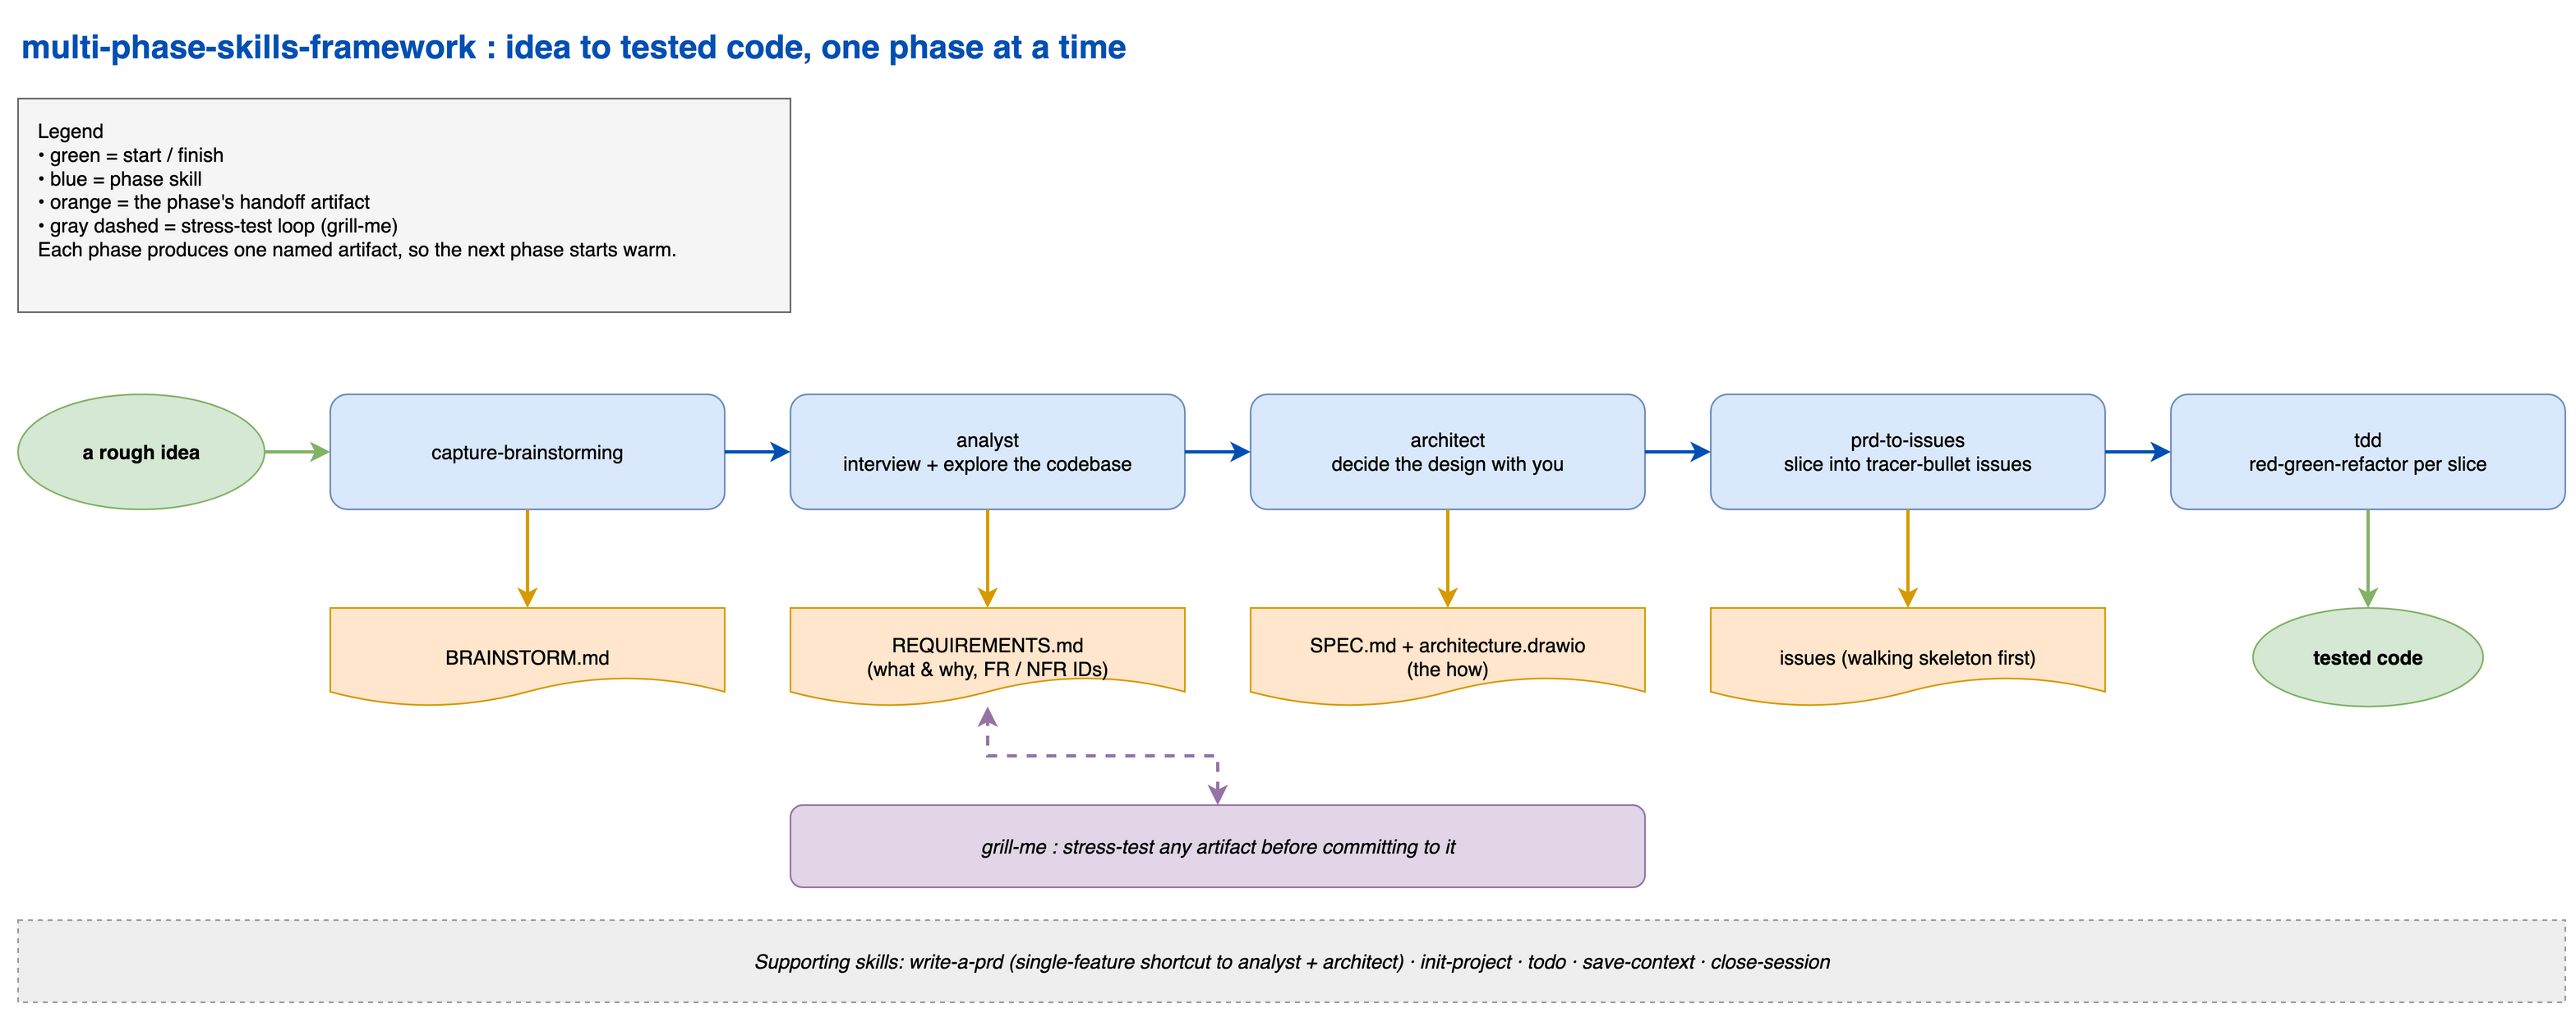
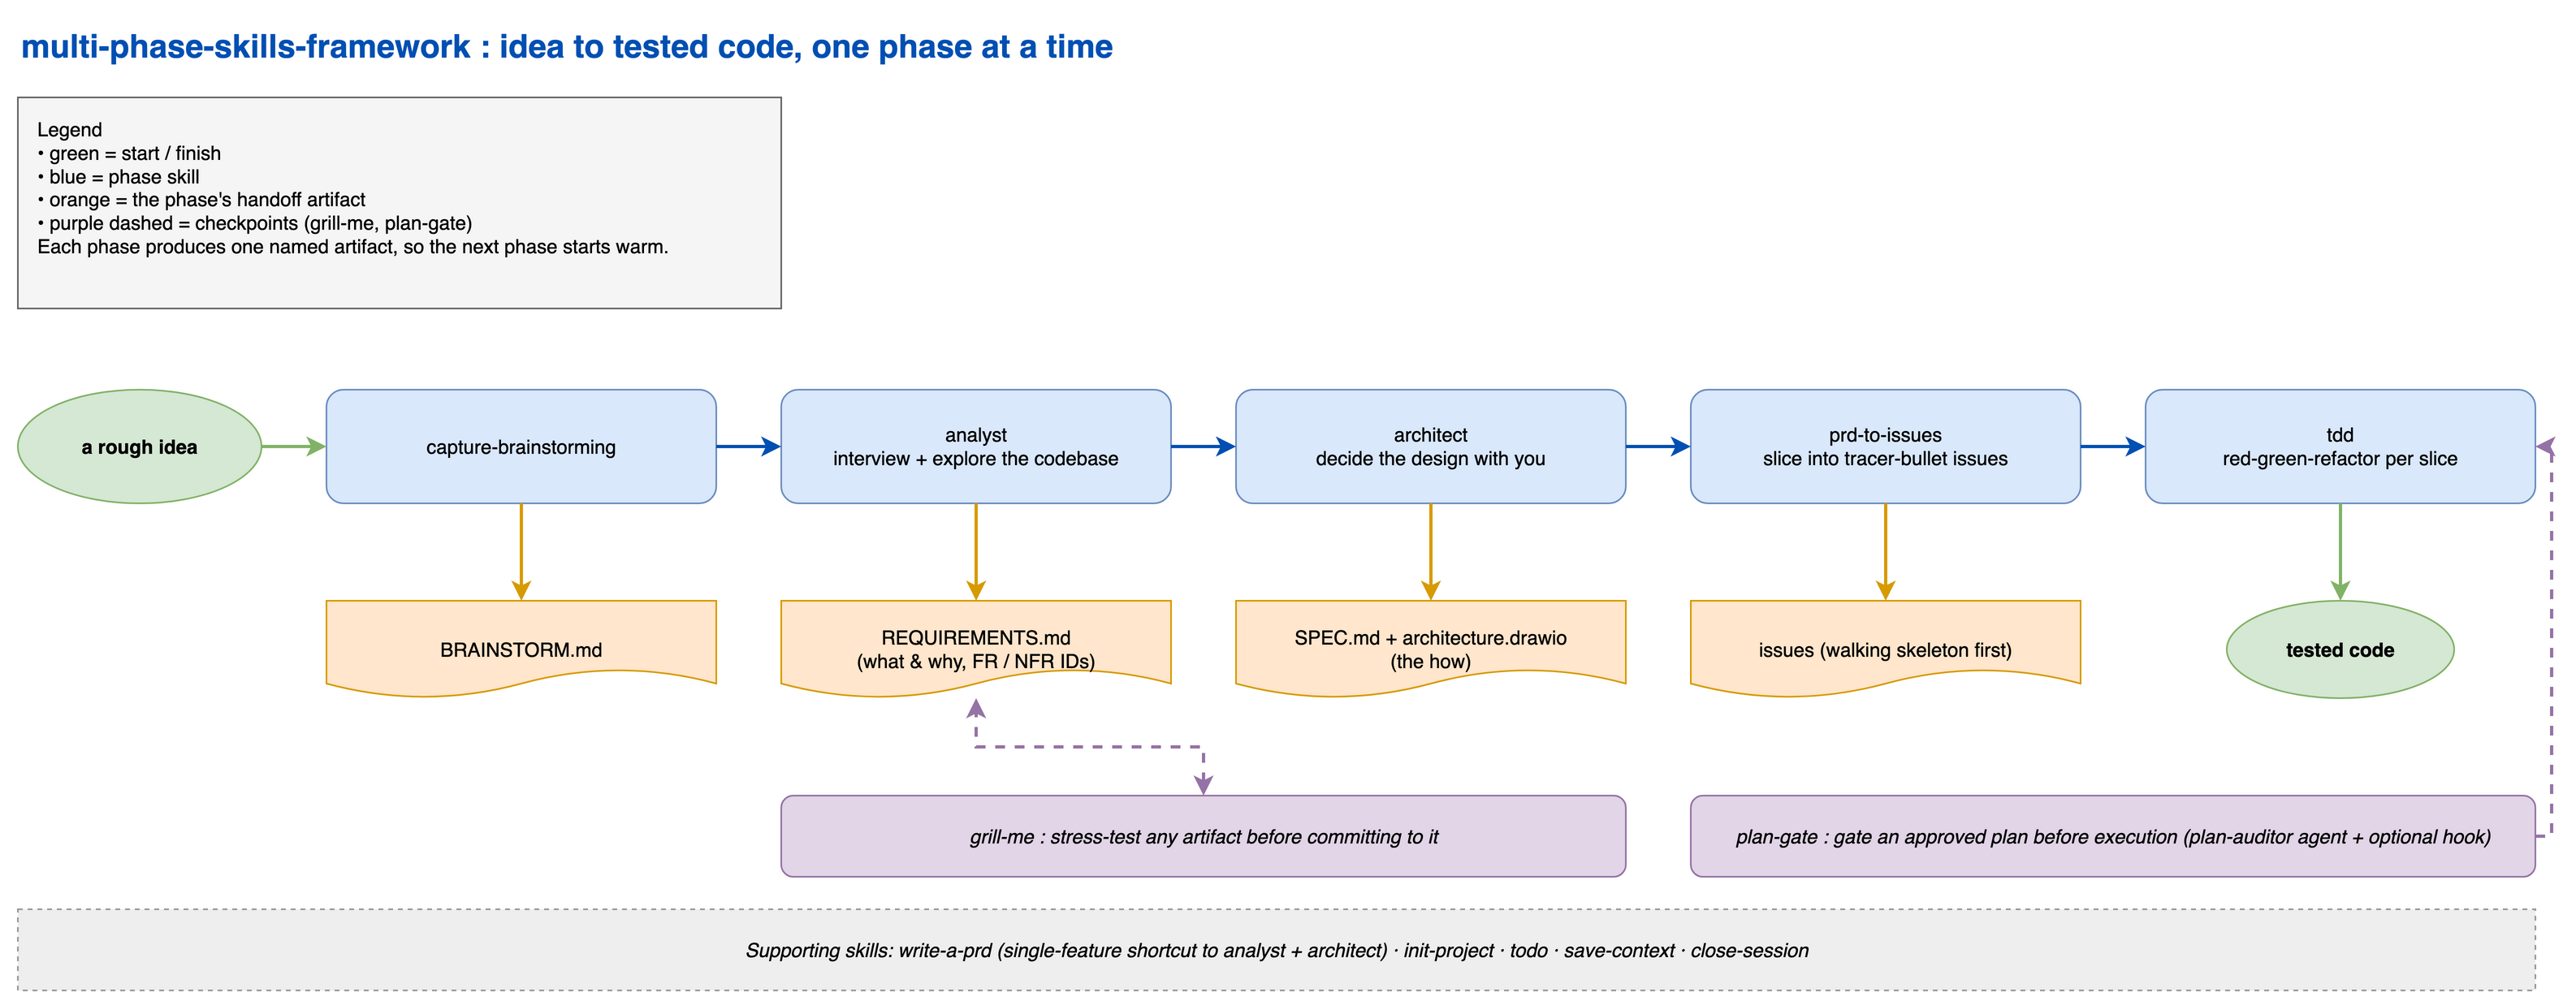
Add the plan-gate system: skill, plan-auditor agent, and ExitPlanMode hook
A pre-execution checkpoint on an approved plan: surface every weak spot
and drive each one to fixed or explicitly accepted with the user before
any code is written. The skill spawns the bundled read-only plan-auditor
agent for the plan-vs-codebase audit; an optional PostToolUse hook on
ExitPlanMode reminds Claude to run the gate the moment a plan is approved.

README documents the agent and hook install (settings.json wiring), and
the flow diagram gains a plan-gate checkpoint box beside grill-me.

diff --git a/plan-gate/SKILL.md b/plan-gate/SKILL.md
@@ -1,0 +1,83 @@
+---
+name: plan-gate
+description: Verify an approved plan before executing it. The moment you leave plan mode (switch to auto or accept mode), surface every weak spot in the plan and drive each one to fixed or explicitly accepted with the user, reaching shared understanding, before any code is written. Use right after a plan is approved (a hook reminds you), or when the user says "gate this plan", "grill the plan before we start", "verify the plan", or wants a shared-understanding check before execution. Not for stress-testing an early idea (use grill-me); this is the pre-execution gate on an already-approved plan.
+disable-model-invocation: false
+argument-hint: "[optional path to the approved plan file]"
+---
+
+# Plan gate
+
+A checkpoint between approving a plan and executing it. Its job: make sure every weak
+spot in the plan is surfaced and either fixed or explicitly accepted by the user, so you
+and the user share a complete, gap-free understanding before any change is made. Do not
+start implementing until the gate is complete.
+
+## When this runs
+
+- Right after you exit plan mode. A PostToolUse hook on ExitPlanMode injects a reminder.
+- Or when the user asks for a plan gate or a verification pass before starting.
+
+## Steps
+
+### 1. Get the approved plan
+
+- If the user passed a path, read that file.
+- Otherwise read the most recently modified file in `~/.claude/plans/` (the plan you just
+  got approved). Confirm in one line which plan you are gating.
+- If neither exists (the plan lives only in the conversation), gate the plan as stated in
+  the conversation and say so; the steps below still apply.
+- Recall the original goal or request the plan is meant to satisfy. The gate checks the
+  plan against that goal, not only against itself.
+
+### 2. Surface the weak spots
+
+Spawn the `plan-auditor` agent (Agent tool, `subagent_type: plan-auditor`) with the plan
+file path and the original goal. It reads the plan, checks it against the codebase, and
+returns a structured weak-spot report: gaps vs the goal, hidden assumptions, unresolved
+decisions, unhandled edge cases, missing failure paths, irreversible steps, verification
+gaps, and claims the code contradicts.
+
+If the auditor is not available, do the same analysis inline, but keep the heavy file
+reading out of the main thread where you can.
+
+### 3. Drive each weak spot to a resolution, one at a time
+
+This is the interactive core. For each weak spot, in severity order:
+
+1. State it in one or two sentences: the concern and why it matters.
+2. Give your recommended resolution.
+3. Ask the user to decide. ONE weak spot at a time. Wait for the answer before moving on.
+4. Record the outcome as exactly one of:
+   - **Fixed** edit the plan file to close the gap.
+   - **Accepted** the user explicitly accepts the risk or the choice as-is. Record the
+     reason in one line. Accepted is a real, allowed outcome: not every weak spot has to
+     be fixed, but every one must be consciously decided.
+
+Do not batch the weak spots into one big question. Do not move past a weak spot until it
+is Fixed or Accepted. If resolving one changes the plan enough to raise a new weak spot,
+add it to the list.
+
+### 4. Confirm shared understanding and release
+
+When every weak spot is Fixed or Accepted:
+
+- Append a short record to the plan file under a `## Plan-gate outcome` heading: the date,
+  and each weak spot with its resolution (Fixed, or Accepted plus the reason), so the
+  decisions are durable. If there is no plan file, put the same record in your summary
+  message instead.
+- Give the user a one-screen summary: N weak spots, X fixed, Y accepted, and the net
+  changes to the plan.
+- State plainly that the gate is complete and you are about to execute the (possibly
+  updated) plan. Then proceed.
+
+## Rules
+
+- The gate is a checkpoint, not a veto. The user can accept any weak spot, or tell you to
+  skip the gate entirely. Honor that, but make the skip explicit.
+- One question at a time, with a recommended answer for each. Resolve it, then move on.
+- "Accepted" needs the user's explicit say-so, never your assumption. If the user has not
+  answered, the weak spot is not resolved.
+- This is the pre-execution gate on an already-approved plan. To stress-test a rough idea
+  or an early document before a plan exists, use grill-me instead.
+- Keep it tight. Surface real weak spots, not manufactured ones. If the plan is solid, say
+  so, resolve the few real items, and release quickly.

diff --git a/agents/plan-auditor.md b/agents/plan-auditor.md
@@ -1,0 +1,52 @@
+---
+name: plan-auditor
+description: Audits an approved implementation plan against the codebase and surfaces every weak spot as a structured report, for use right after exiting plan mode. Read-only analysis; it does not interview, fix, or implement. The plan-gate skill spawns it; you can also invoke it directly on a plan file.
+tools: Read, Grep, Glob, Bash
+model: inherit
+---
+
+You audit an implementation plan and surface every weak spot, so the main thread can
+drive each one to a resolution with the user. You analyze and report. You do not
+interview the user, edit files, or implement anything.
+
+When invoked:
+1. Read the plan. The caller gives you a plan file path (usually the most recent file in
+   `~/.claude/plans/`) or pastes the plan. Read it in full. Also read the original goal
+   or request it is meant to satisfy when that is available.
+2. Check the plan against the actual codebase. Use Read, Grep, Glob, and read-only Bash
+   (`git log`, `ls`, reading a config file) to confirm or refute the plan's assumptions:
+   do the files, functions, and APIs it names exist? Does it match existing patterns? Is
+   a "reuse X" actually reusable? Never edit anything or run a command that mutates state.
+3. Surface the weak spots. For each, give the category, the specific concern (with a
+   file:line or the plan step it refers to), why it matters, and a recommended resolution.
+
+Categories to sweep:
+- Gaps vs the stated goal: parts of the request the plan does not address, or scope it
+  added that the goal did not ask for.
+- Hidden or unstated assumptions (about the data, the environment, the user, the code).
+- Unresolved decisions: where the plan picks an approach without noting the alternative
+  or the tradeoff, or leaves a choice implicit.
+- Edge cases not handled: empty, very large, concurrent, partial-failure, retry,
+  permission-denied, timezone or locale, network partition.
+- Missing failure paths and recovery behavior.
+- Irreversible or risky steps: data deletion, schema changes, force pushes, production
+  writes, anything hard to undo, and whether the plan guards them.
+- Verification gap: how will each change be confirmed to work? Is there a test or check?
+- Claims the codebase contradicts: the plan says reuse X, but X does not exist or does
+  not do that.
+
+Report format:
+
+**Plan audit: <plan name or file>**
+
+For each weak spot, one entry:
+- **[<category>] <short title>** the concern (with the plan step or file:line), why it
+  matters, and a recommended resolution.
+
+Order by severity: the ones that would break the result or surprise the user first,
+cosmetic last. End with a one-line count (N weak spots: M high, K medium, J low). If the
+plan is genuinely solid, say so plainly and list only the little you found; do not
+manufacture concerns to pad the report.
+
+Be specific and concrete. If you are unsure whether something is a real problem, say so
+and explain the doubt rather than asserting it.

diff --git a/README.md b/README.md
@@ -1,6 +1,6 @@
 # Multi-Phase Skills Framework
 
-A set of Claude Code skills that take a piece of work through distinct phases, from a rough idea to tested code, with a clear handoff artifact at each step. Each phase is small and does one thing, so you can start anywhere in the chain and stop when you have what you need.
+A set of Claude Code skills that take a piece of work through distinct phases, from a rough idea to tested code, with a clear handoff artifact at each step. Each phase is small and does one thing, so you can start anywhere in the chain and stop when you have what you need. One skill (`plan-gate`) ships with a companion agent and hook; everything else is a plain skill directory.
 
 ![The phase chain](docs/framework-flows.png)
 
@@ -20,6 +20,7 @@ Supporting skills used across the chain:
 
 - **write-a-prd** — lightweight single-feature alternative to the `analyst` then `architect` pass: one interview, one PRD, filed as one issue. Based on the Matt Pocock skills set.
 - **grill-me** — adversarial interview to stress-test a plan, design, or doc before committing to it. Based on the grill-me skill by Matt Pocock.
+- **plan-gate** — pre-execution checkpoint on an approved plan (for example one you just approved in Claude Code's plan mode): surface every weak spot and drive each one to fixed or explicitly accepted with the user, one at a time, before any code is written. Spawns the bundled `plan-auditor` agent for the read-only audit; an optional hook fires the gate automatically the moment you leave plan mode. Use `grill-me` to stress-test an early idea; `plan-gate` is for a plan that is already approved.
 - **init-project** — seed a project `CLAUDE.md` for a data/automation project from its description and files.
 - **todo** — persistent per-project `TODO.md` with a cross-project index. Other skills hand deferred work to it.
 - **save-context** — end-of-session save into the project `CLAUDE.md` and memory.
@@ -40,6 +41,39 @@ done
 ```
 
 `tdd` and `todo` ship with companion files next to their `SKILL.md` (reference notes and helper scripts); keep each skill's directory intact when you copy it.
+
+### plan-gate companions (agent + hook)
+
+`plan-gate` is a three-part system. The skill directory installs like the others; its two companions live outside it:
+
+```bash
+# The plan-auditor agent (plan-gate spawns it for the read-only plan audit)
+mkdir -p ~/.claude/agents ~/.claude/hooks
+cp multi-phase-skills-framework/agents/plan-auditor.md ~/.claude/agents/
+
+# Optional: the hook that reminds Claude to run the gate whenever a plan is approved
+cp multi-phase-skills-framework/hooks/plan-gate-reminder.sh ~/.claude/hooks/
+chmod +x ~/.claude/hooks/plan-gate-reminder.sh
+```
+
+To wire the hook, add this entry to `~/.claude/settings.json` under `hooks` (merge with any existing `PostToolUse` list):
+
+```json
+{
+  "hooks": {
+    "PostToolUse": [
+      {
+        "matcher": "ExitPlanMode",
+        "hooks": [
+          { "type": "command", "command": "$HOME/.claude/hooks/plan-gate-reminder.sh" }
+        ]
+      }
+    ]
+  }
+}
+```
+
+The hook is optional and non-blocking: without it, `plan-gate` still runs whenever you ask for it ("gate this plan"); with it, Claude is reminded to run the gate the moment a plan is approved, before the first change is made. Without the agent, the skill falls back to doing the audit inline, so install the agent to keep the heavy plan-vs-codebase reading out of your main context.
 
 The persistence skills (`capture-brainstorming`, `analyst`, `todo`, `save-context`, `close-session`) assume the standard Claude Code layout: a per-project data dir at `~/.claude/projects/<X>/` and a memory index under the dash-encoded home path (e.g. `-Users-jdoe` for `/Users/jdoe`). They derive that path from `$HOME`, so they work on any machine without editing.
 
@@ -63,7 +97,7 @@ These skills reference a few things this framework does not include. None are re
 
 ## Credits
 
-Several skills here are based on Matt Pocock's open-source skills set (https://github.com/mattpocock/skills): `tdd`, `prd-to-issues` (his `to-issues`), `write-a-prd`, and `grill-me`. To install his full upstream set and its per-repo config, run `/setup-matt-pocock-skills` from that repo. `analyst` and `architect` are original to this framework, they add the explicit requirements and design phases his set does not include.
+Several skills here are based on Matt Pocock's open-source skills set (https://github.com/mattpocock/skills): `tdd`, `prd-to-issues` (his `to-issues`), `write-a-prd`, and `grill-me`. To install his full upstream set and its per-repo config, run `/setup-matt-pocock-skills` from that repo. `analyst` and `architect` are original to this framework, they add the explicit requirements and design phases his set does not include. The `plan-gate` system (skill, `plan-auditor` agent, and reminder hook) is also original.
 
 ## License
 